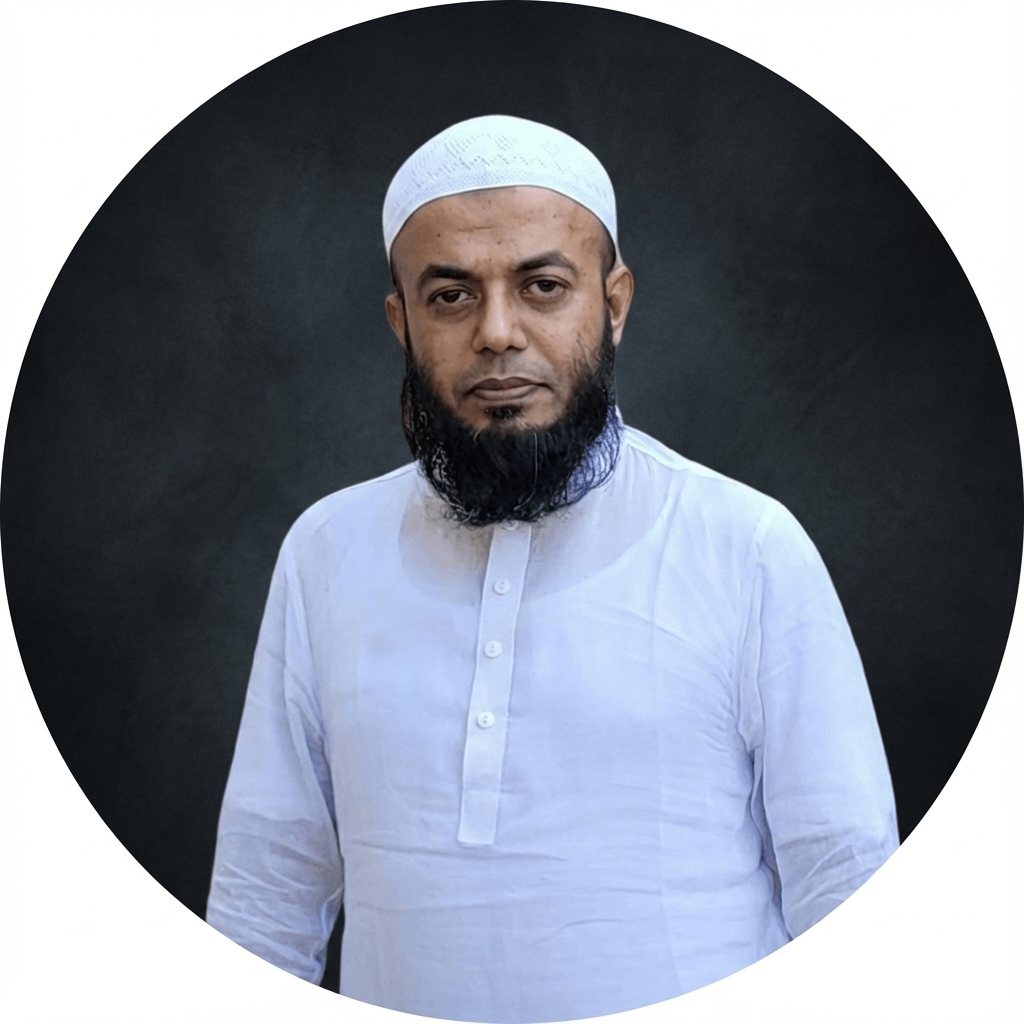
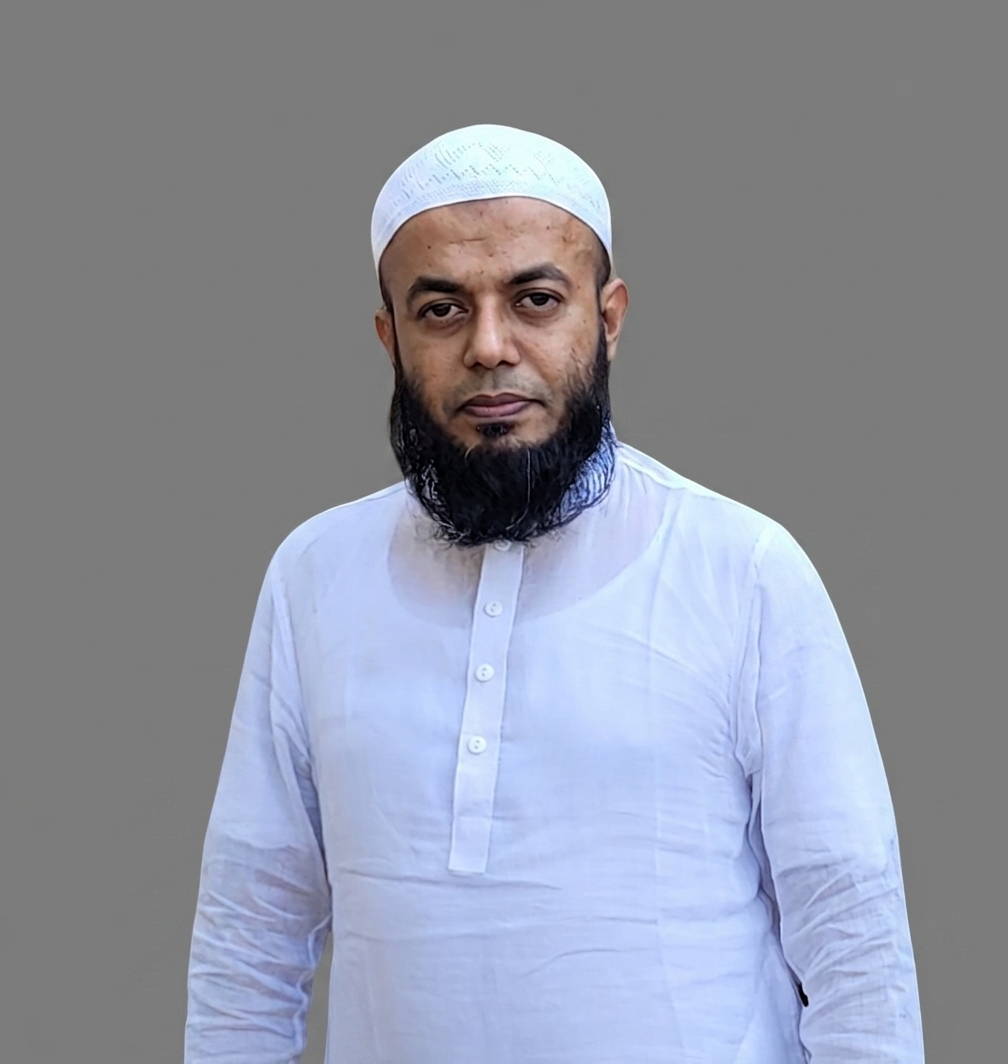
Contact section done

diff --git a/src/components/sections/contact.tsx b/src/components/sections/contact.tsx
@@ -1,0 +1,183 @@
+import { ExternalLink } from "@/components/common/external-link";
+import { SectionHeading } from "@/components/common/section-heading";
+import { Container } from "@/components/layout/container";
+import { Section } from "@/components/layout/section";
+import { Button } from "@/components/ui/button";
+import { Card } from "@/components/ui/card";
+import { siteConfig } from "@/lib/site";
+
+const fieldClassName =
+  "mt-2 min-h-11 w-full rounded-lg border border-border bg-background px-3.5 py-2.5 text-foreground shadow-sm placeholder:text-subtle-foreground disabled:cursor-not-allowed disabled:bg-muted disabled:text-muted-foreground disabled:opacity-80";
+
+export function Contact() {
+  return (
+    <Section
+      aria-labelledby="contact-heading"
+      className="section-reveal"
+      id="contact"
+      surface="alternate"
+      tabIndex={-1}
+    >
+      <Container>
+        <SectionHeading
+          description="For project discussions, professional opportunities, or technical conversations, use one of the direct contact options below."
+          eyebrow="Contact"
+          title="Let’s start a conversation"
+          titleId="contact-heading"
+        />
+
+        <div className="mt-10 grid items-start gap-6 lg:grid-cols-[minmax(0,0.85fr)_minmax(0,1.15fr)] lg:gap-8">
+          <Card padding="lg">
+            <h3 className="text-xl leading-[var(--line-height-heading)] font-semibold text-foreground">
+              Contact information
+            </h3>
+            <p className="mt-3 leading-[var(--line-height-body)] text-muted-foreground">
+              Email or call directly, or connect through a professional profile.
+            </p>
+
+            <dl className="mt-6 divide-y divide-border">
+              <div className="py-4 first:pt-0">
+                <dt className="font-mono text-xs font-semibold tracking-[var(--letter-spacing-label)] text-subtle-foreground uppercase">
+                  Name
+                </dt>
+                <dd className="mt-1 font-semibold text-foreground">{siteConfig.name}</dd>
+                <dd className="mt-1 text-sm text-muted-foreground sm:text-base">
+                  {siteConfig.professionalTitle}
+                </dd>
+              </div>
+              <div className="py-4">
+                <dt className="font-mono text-xs font-semibold tracking-[var(--letter-spacing-label)] text-subtle-foreground uppercase">
+                  Location
+                </dt>
+                <dd className="mt-1 text-foreground">{siteConfig.location}</dd>
+              </div>
+              <div className="py-4">
+                <dt className="font-mono text-xs font-semibold tracking-[var(--letter-spacing-label)] text-subtle-foreground uppercase">
+                  Cell
+                </dt>
+                <dd className="mt-1">
+                  <a className="text-link inline-flex min-h-11 items-center" href={siteConfig.phoneHref}>
+                    {siteConfig.phone}
+                  </a>
+                </dd>
+              </div>
+              <div className="py-4">
+                <dt className="font-mono text-xs font-semibold tracking-[var(--letter-spacing-label)] text-subtle-foreground uppercase">
+                  Email
+                </dt>
+                <dd className="mt-1 break-words">
+                  <a className="text-link inline-flex min-h-11 items-center" href={siteConfig.emailHref}>
+                    {siteConfig.email}
+                  </a>
+                </dd>
+              </div>
+              <div className="pt-4">
+                <dt className="font-mono text-xs font-semibold tracking-[var(--letter-spacing-label)] text-subtle-foreground uppercase">
+                  Professional profiles
+                </dt>
+                <dd className="mt-2 flex flex-wrap gap-x-6 gap-y-1">
+                  {siteConfig.socialLinks.map((link) => (
+                    <ExternalLink className="min-h-11" href={link.href} key={link.href}>
+                      {link.label}
+                    </ExternalLink>
+                  ))}
+                </dd>
+              </div>
+            </dl>
+          </Card>
+
+          <Card padding="lg">
+            <div className="flex flex-col gap-4 border-b border-border pb-6 sm:flex-row sm:items-start sm:justify-between">
+              <div>
+                <p className="font-mono text-xs font-semibold tracking-[var(--letter-spacing-label)] text-primary-hover uppercase">
+                  Interface preview
+                </p>
+                <h3 className="mt-2 text-xl leading-[var(--line-height-heading)] font-semibold text-foreground">
+                  Send a message
+                </h3>
+              </div>
+              <span className="w-fit rounded-full border border-border bg-muted px-3 py-1 font-mono text-xs font-semibold text-muted-foreground">
+                Delivery unavailable
+              </span>
+            </div>
+
+            <p
+              className="mt-6 rounded-lg border border-primary/25 bg-primary/10 p-4 text-sm leading-relaxed text-foreground sm:text-base"
+              id="contact-form-status"
+            >
+              Online form delivery is not available in this initial release. Please email{` `}
+              <a className="text-link" href={siteConfig.emailHref}>
+                {siteConfig.email}
+              </a>{` `}
+              or use one of the direct contact options.
+            </p>
+
+            <form aria-describedby="contact-form-status" className="mt-6">
+              <fieldset disabled>
+                <legend className="sr-only">Contact form preview</legend>
+                <div className="grid gap-5 sm:grid-cols-2">
+                  <div>
+                    <label className="font-semibold text-foreground" htmlFor="contact-name">
+                      Name
+                    </label>
+                    <input
+                      autoComplete="name"
+                      className={fieldClassName}
+                      id="contact-name"
+                      name="name"
+                      placeholder="Your name"
+                      type="text"
+                    />
+                  </div>
+                  <div>
+                    <label className="font-semibold text-foreground" htmlFor="contact-email">
+                      Email
+                    </label>
+                    <input
+                      autoComplete="email"
+                      className={fieldClassName}
+                      id="contact-email"
+                      name="email"
+                      placeholder="you@example.com"
+                      type="email"
+                    />
+                  </div>
+                </div>
+
+                <div className="mt-5">
+                  <label className="font-semibold text-foreground" htmlFor="contact-subject">
+                    Subject
+                  </label>
+                  <input
+                    className={fieldClassName}
+                    id="contact-subject"
+                    name="subject"
+                    placeholder="What would you like to discuss?"
+                    type="text"
+                  />
+                </div>
+
+                <div className="mt-5">
+                  <label className="font-semibold text-foreground" htmlFor="contact-message">
+                    Message
+                  </label>
+                  <textarea
+                    className={`${fieldClassName} min-h-36 resize-y`}
+                    id="contact-message"
+                    name="message"
+                    placeholder="Share a brief overview of your enquiry"
+                    rows={5}
+                  />
+                </div>
+
+                <Button className="mt-6 w-full sm:w-auto" disabled type="submit">
+                  Online delivery unavailable
+                </Button>
+              </fieldset>
+            </form>
+          </Card>
+        </div>
+      </Container>
+    </Section>
+  );
+}

diff --git a/src/app/page.tsx b/src/app/page.tsx
@@ -1,6 +1,7 @@
 import type { Metadata } from "next";
 
 import { About } from "@/components/sections/about";
+import { Contact } from "@/components/sections/contact";
 import { Experience } from "@/components/sections/experience";
 import { FeaturedProjects } from "@/components/sections/featured-projects";
 import { Hero } from "@/components/sections/hero";
@@ -39,6 +40,7 @@ export default function Home() {
       <FeaturedProjects />
       <Experience />
       <Process />
+      <Contact />
     </>
   );
 }

diff --git a/src/components/layout/site-footer.tsx b/src/components/layout/site-footer.tsx
@@ -40,10 +40,10 @@ export function SiteFooter() {
             </ul>
           </nav>
 
-          <section aria-labelledby="contact-heading" id="contact" tabIndex={-1}>
+          <section aria-labelledby="footer-contact-heading">
             <h2
               className="font-mono text-xs font-semibold tracking-[var(--letter-spacing-label)] text-foreground uppercase"
-              id="contact-heading"
+              id="footer-contact-heading"
             >
               Contact
             </h2>

diff --git a/src/lib/site.ts b/src/lib/site.ts
@@ -3,6 +3,8 @@ export const siteConfig = {
   title: "Md. Jakir Hossain | Portfolio",
   professionalTitle: "MERN Stack & Next.js Web Developer",
   location: "Dhaka, Bangladesh",
+  phone: "+88 01712119253",
+  phoneHref: "tel:+8801712119253",
   email: "jakir.devbd@gmail.com",
   emailHref: "mailto:jakir.devbd@gmail.com",
   description:

diff --git a/docs/IMPLEMENTATION_PLAN.md b/docs/IMPLEMENTATION_PLAN.md
@@ -13,11 +13,11 @@
 | 7. Design-system implementation | Implement approved semantic colors, light/dark/system foundations, typography, layout, shape, elevation, focus, and motion tokens through Tailwind CSS v4 conventions. | **Implemented — build verification pending** | Phase 25 verified the semantic token coverage, labelled Light/Dark/System selection, persistence, cross-tab synchronization, CSS-driven system preference, and pre-hydration initialization. Lint, type-check, and runtime results are recorded after validation; production build requires Google Fonts access. |
 | 8. Foundational UI components | Build the reusable layout, heading, control, badge, card, link, theme, and skip-link primitives that consume the Phase 7 tokens. | **Implemented — build verification pending** | Twelve typed foundational components were added; lint and type-check passed on 2026-08-28. The production build remains blocked by unavailable Google Fonts network access. |
 | 9. Global page layout | Provide root metadata, fonts, theme context, skip navigation, one global main landmark, shared responsive header/footer, and content-width behavior across public and not-found routes. | **Implemented — build verification pending** | The Phase 24 footer adds confirmed identity, essential navigation, public email, professional profiles, and generated copyright content globally. Lint, type-check, and responsive runtime results are recorded after validation; production build remains dependent on Google Fonts access. |
-| 10. Header and responsive navigation | Complete brand, desktop/mobile navigation, direct theme selection, Contact action, active-state infrastructure, focus management, Escape handling, reduced-motion anchor behavior, and sticky positioning. | **Implemented — Contact target and build verification pending** | Lint and type-check passed; runtime checks at 320px, 768px, 1024px, and 1440px confirmed responsive switching, no overflow, menu focus/closure, Escape restoration, active route/hash states, theme selection, and sticky positioning on 2026-08-28. The homepage has no implemented `#contact` section yet, and production build remains dependent on Google Fonts access. |
+| 10. Header and responsive navigation | Complete brand, desktop/mobile navigation, direct theme selection, Contact action, active-state infrastructure, focus management, Escape handling, reduced-motion anchor behavior, and sticky positioning. | **Implemented — build verification pending** | Lint and type-check passed; runtime checks at 320px, 768px, 1024px, and 1440px confirmed responsive switching, no overflow, menu focus/closure, Escape restoration, active route/hash states, theme selection, and sticky positioning on 2026-08-28. The Contact action now targets the implemented homepage section; production build remains dependent on Google Fonts access. |
 | 11. Portfolio Hero | Build the first homepage section with confirmed identity, location, professional focus, technologies, project/contact actions, professional profile links, and the approved professional portrait. | **Implemented — build verification pending** | The responsive server-rendered Hero uses Phase 7 tokens and Phase 8 components, includes reduced-motion-aware entrance styling, and presents the approved 900 × 950 WebP through `next/image` without cropping or distortion. The unavailable résumé remains omitted. |
-| 12. Remaining homepage sections | Build only the later approved homepage sections with approved content and assets. | **In progress — through Development Process implemented** | About, Skills, Services, Featured Project, Professional Experience, and Development Process plus their navigation targets are implemented. Contact remains separate future work. |
+| 12. Remaining homepage sections | Build only the later approved homepage sections with approved content and assets. | **Complete** | About, Skills, Services, Featured Project, Professional Experience, Development Process, and the static Contact section plus their navigation targets are implemented. |
 | 13. Projects and CareerBridge case study | Replace the route-foundation UI with approved project listing and complete CareerBridge case-study content and assets. | **In progress — dynamic case-study template implemented** | CareerBridge is the authoritative featured record; the shared card, project directory, and dynamic status-aware case-study presentation expose verified overview, stack, roles, features, architecture, links, metadata, and not-found behavior. Additional screenshots and the interview-based challenge/outcome narrative remain pending. |
-| 14. Contact integration | Implement provider-neutral UI and approved delivery configuration. | **Blocked by decisions** | Recipient, provider, fields, spam protection, and privacy requirements are pending. |
+| 14. Contact integration | Implement provider-neutral UI and approved delivery configuration. | **Static interface implemented — delivery blocked by decisions** | Verified direct contact methods and an accessible disabled form preview are implemented. Recipient, provider, required fields, spam protection, and privacy requirements remain pending before online submission can be enabled. |
 | 15. Accessibility, responsive refinement, and SEO | Verify accessibility, supported widths, metadata, sitemap, robots, and error states. | **In progress — SEO infrastructure implemented** | Global and route metadata, text-only social cards, indexing rules, structured data, robots, and a data-driven sitemap are implemented. Domain-dependent output activates through optional `SITE_URL`; production origin and approved icon/social-preview assets remain pending. |
 | 15a. Animations and interactions | Add restrained interaction feedback, section and Hero entrances, mobile-menu state transitions, theme transitions, and reduced-motion behavior without an animation dependency. | **Implemented — build verification pending** | Phase 26 uses existing motion tokens and CSS-first progressive enhancement. Lint and type-check passed; desktop/mobile runtime checks confirmed supported section timelines, anchor visibility, menu focus and Escape behavior, hidden semantics, and no overflow or console warnings. Reduced-motion emulation was unavailable, so its CSS gate and global overrides were verified statically. Production build remains blocked by Google Fonts access. |
 | 15b. Image and asset optimization | Audit owned visual assets, correct formats and intrinsic dimensions, refine responsive delivery, and document pending assets without fabricating media. | **Implemented — build verification pending** | The sole supplied CareerBridge image is correctly organized as its actual JPEG format at 753 × 471, retains its original bytes, uses accurate alternative text and responsive `sizes`, and loads lazily below the fold. Profile, résumé, icon, social-preview, and additional screenshot assets remain pending. |
@@ -31,4 +31,4 @@
 
 ## Current boundary
 
-The development standards, design-system foundation, foundational UI components, global page layout, responsive navigation, portfolio Hero, homepage About, Skills, Services, Featured Project, Professional Experience, and Development Process sections, and reusable project-data model are implemented, with production-build verification pending in an environment that can fetch Google Fonts. The Contact navigation destination remains pending because no `#contact` homepage section exists yet. CareerBridge remains in development: its record distinguishes repository-verified implementation from workflows and deployment behavior that still require validation. Do not treat missing assets, case-study narrative, contact configuration, deployment, or untested functionality as complete.
+The development standards, design-system foundation, foundational UI components, global page layout, responsive navigation, all planned homepage sections including a static Contact interface, and the reusable project-data model are implemented, with production-build verification pending in an environment that can fetch Google Fonts. Online contact delivery remains disabled until its recipient, provider, required fields, spam protection, and privacy requirements are approved. CareerBridge remains in development: its record distinguishes repository-verified implementation from workflows and deployment behavior that still require validation. Do not treat missing assets, case-study narrative, contact delivery configuration, deployment, or untested functionality as complete.

diff --git a/docs/DESIGN_SYSTEM.md b/docs/DESIGN_SYSTEM.md
@@ -83,7 +83,11 @@ The Phase 10 Header keeps the confirmed brand link and desktop navigation server
 - The sticky Header uses `overflow-x: clip` on the document so horizontal spill remains contained without creating a scrolling context that breaks sticky positioning.
 - Smooth anchor scrolling uses the shared sticky-header offset and becomes immediate under `prefers-reduced-motion: reduce`.
 
-Only links backed by implemented homepage sections belong in `siteConfig.homepageNavigation`. It includes About at `/#about`, Skills at `/#skills`, Services at `/#services`, Featured at `/#featured-projects`, Experience at `/#experience`, and Process at `/#process`; the implemented Hero is represented by the Home link. The required Contact action points to `/#contact`; its destination will become functional when the approved Contact section is implemented.
+Only links backed by implemented homepage sections belong in `siteConfig.homepageNavigation`. It includes About at `/#about`, Skills at `/#skills`, Services at `/#services`, Featured at `/#featured-projects`, Experience at `/#experience`, and Process at `/#process`; the implemented Hero is represented by the Home link. The required Contact action points to the implemented `/#contact` section.
+
+## Contact section
+
+The Contact section uses a responsive two-column layout: verified identity, location, phone, email, GitHub, and LinkedIn details appear first, followed by a clearly labelled form-interface preview. The layout stacks on smaller screens. The preview fields and submit control are disabled, and nearby explanatory copy states that online delivery is unavailable while linking to the confirmed public email. This keeps the first release honest and usable without implying that a provider, recipient, field requirements, spam protection, or privacy behavior has been configured.
 
 ## Portfolio Hero
 
@@ -115,7 +119,7 @@ The Phase 20 Development Process section presents six approved stages as a seman
 
 ## Global footer
 
-The Phase 24 global footer uses the root layout so it appears once across every route. A responsive three-column area presents identity, essential Home and Projects navigation, and direct email, GitHub, and LinkedIn contact paths; it stacks into a clear reading order on smaller screens. Its labelled Contact region is also the stable `#contact` target used by global navigation. The copyright year is generated at render time. Links use visible text, shared focus treatment, and approximately 44-pixel targets, while external profile links retain their new-tab indication. A back-to-top control is omitted because it is optional and would not add enough value to this compact footer.
+The Phase 24 global footer uses the root layout so it appears once across every route. A responsive three-column area presents identity, essential Home and Projects navigation, and direct email, GitHub, and LinkedIn contact paths; it stacks into a clear reading order on smaller screens. The homepage Contact section is the stable `#contact` target used by global navigation. The copyright year is generated at render time. Links use visible text, shared focus treatment, and approximately 44-pixel targets, while external profile links retain their new-tab indication. A back-to-top control is omitted because it is optional and would not add enough value to this compact footer.
 
 ## Foundational components
 

diff --git a/docs/CONTENT.md b/docs/CONTENT.md
@@ -91,7 +91,7 @@ Restrictions:
 | `publicEmail` | Contact, Footer, résumé/contact action, structured metadata if approved | `jakir.devbd@gmail.com` | `Confirmed` | Phase 24 brief | Public contact address. This does not independently approve it as the form-delivery recipient. |
 | `contactFormRecipient` | Server-only contact configuration | Not selected | `Pending user confirmation` | Requirements | May equal the public email but must be approved separately. |
 | `contactProvider` | Server integration | Not selected | `Pending user confirmation` | Requirements | Keep provider-neutral. Do not configure credentials in this phase. |
-| `phoneNumber` | Any public content | Empty | `Do not invent` | No authoritative source | Not required unless the user explicitly approves one. |
+| `phoneNumber` | Contact | `+88 01712119253` | `Confirmed` | Contact-section brief | Link with the exact telephone URI `tel:+8801712119253`. |
 
 ## 10. Confirmed social and project links
 
